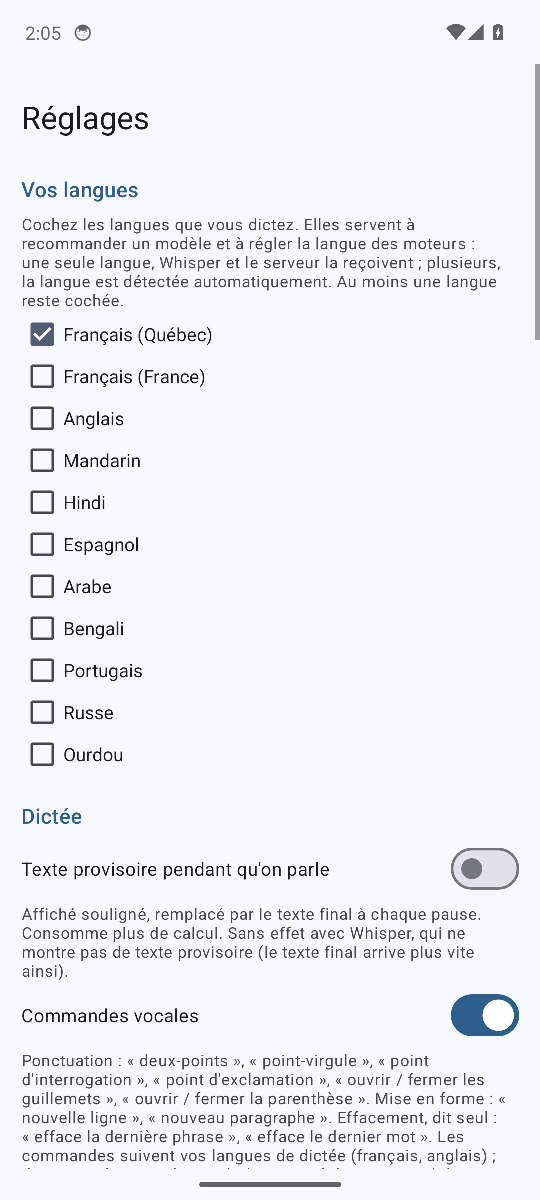
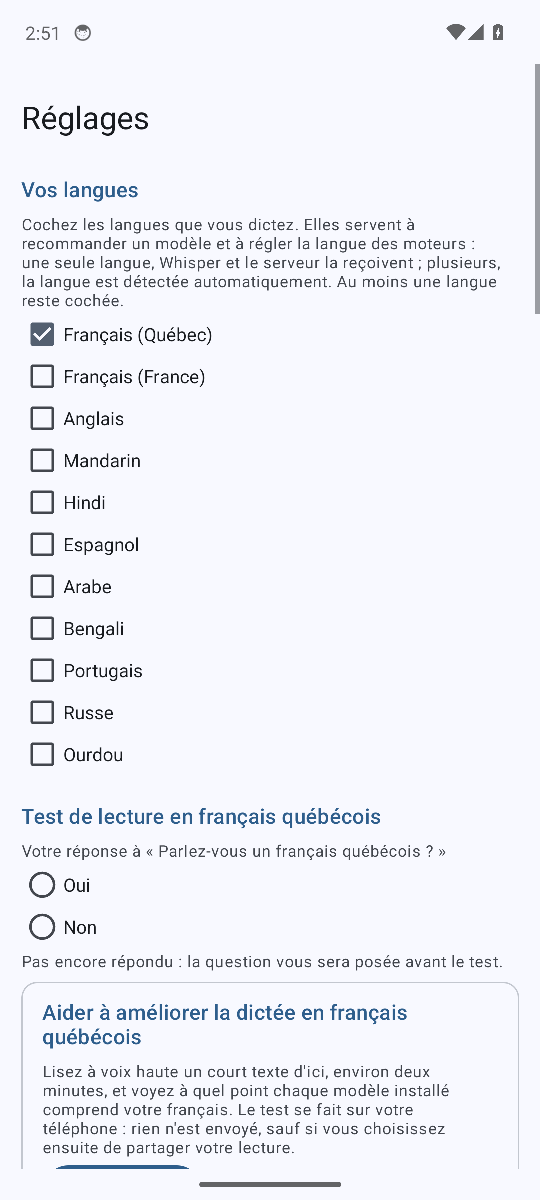
Docs: screenshots of the reading test and the sharing offer (issue #15, lot 4)
Captured by ScreenshotTest on the CI emulator (run 43353982643).

Claude-Session: https://claude.ai/code/session_0145TuzcA8sM3EXhtJKhBPDQ

diff --git a/android/README.md b/android/README.md
@@ -182,6 +182,10 @@ pour la seule application choisie). Politique de contribution :
 [`docs/CONTRIBUTION.md`](docs/CONTRIBUTION.md) ; textes, seuils et choix :
 `DECISIONS.md` (« Issue #15, lot 4 »).
 
+| Score par modèle (clair) | Score (sombre) | Proposition de partage (clair) | Partage (sombre) |
+|---|---|---|---|
+| ![Test de lecture, score](docs/screenshots/reading-light.png) | ![Test de lecture, score, sombre](docs/screenshots/reading-dark.png) | ![Proposition de partage](docs/screenshots/reading-share-light.png) | ![Proposition de partage, sombre](docs/screenshots/reading-share-dark.png) |
+
 ## Apparence
 
 L'interface est un thème Material 3 générique : bleu, polices du système,
